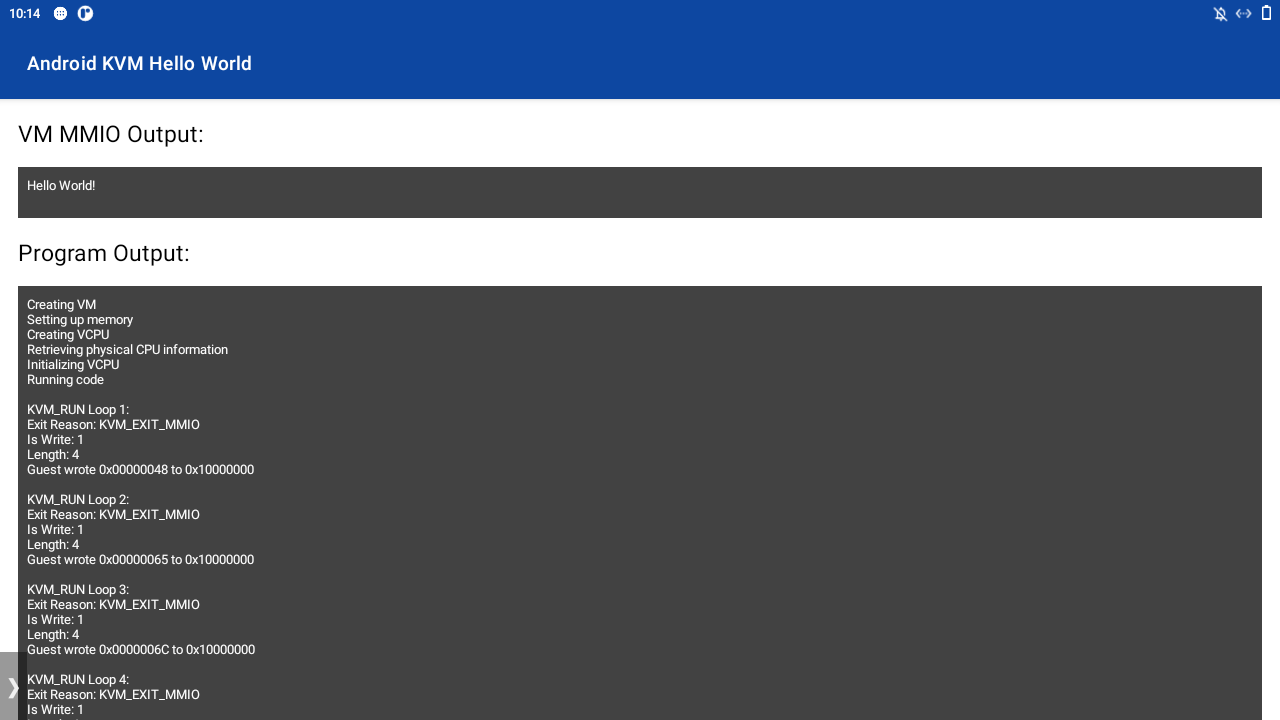
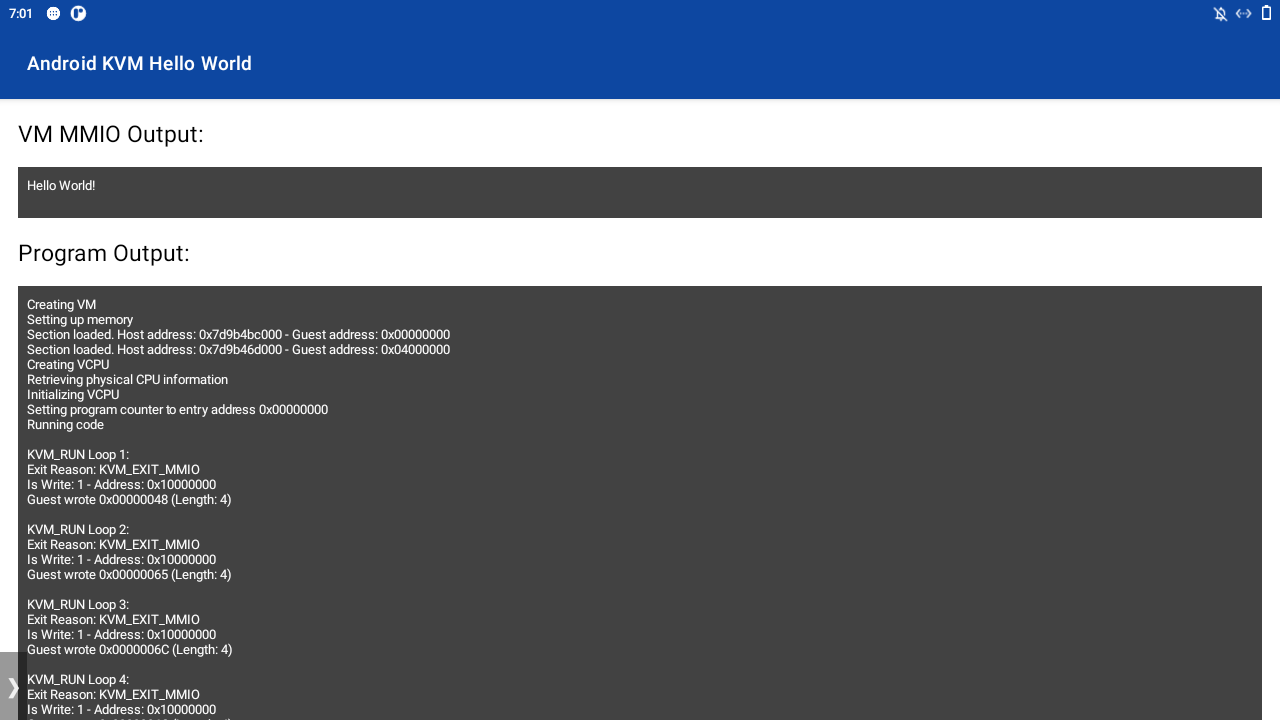
Improve README

Changed region(s): [[0.0, 0.4583, 0.375, 0.9167], [0.0625, 0.9778, 0.1875, 1.0], [0.0, 0.0, 0.0938, 0.0306]]

diff --git a/app/src/main/cpp/kvm_test.cpp b/app/src/main/cpp/kvm_test.cpp
@@ -194,12 +194,11 @@ int copy_elf_into_memory(AAssetManager *mgr) {
  * Handles a MMIO exit from KVM_RUN.
  */
 void mmio_exit_handler() {
-    snprintf(buffer, MAX_STRING_LENGTH, "Is Write: %d\n", run->mmio.is_write);
+    snprintf(buffer, MAX_STRING_LENGTH, "Is Write: %d - Address: 0x%08llX\n",
+             run->mmio.is_write, run->mmio.phys_addr);
     output_text += buffer;
 
     if (run->mmio.is_write) {
-        snprintf(buffer, MAX_STRING_LENGTH, "Length: %d\n", run->mmio.len);
-        output_text += buffer;
         uint64_t data = 0;
         for (int j = 0; j < run->mmio.len; j++) {
             data |= run->mmio.data[j] << 8 * j;
@@ -207,8 +206,8 @@ void mmio_exit_handler() {
 
         mmio_buffer[mmio_buffer_index] = data;
         mmio_buffer_index++;
-        snprintf(buffer, MAX_STRING_LENGTH, "Guest wrote 0x%08lX to 0x%08llX\n", data,
-                 run->mmio.phys_addr);
+        snprintf(buffer, MAX_STRING_LENGTH, "Guest wrote 0x%08lX (Length: %d)\n", data,
+                 run->mmio.len);
         output_text += buffer;
     }
 }

diff --git a/README.md b/README.md
@@ -1,6 +1,9 @@
 # Prerequisites
 
-This app will only run successful on Android 12. Also the permissions of the file `/dev/kvm` on Android need to be changed, so that all users have read and write permission.
+This app will only run successful on Android 12.
+Also the permissions of the file `/dev/kvm` on Android need to be changed,
+so that all users have read and write permission.
+See the last section of this file for more information.
 
 # About
 
@@ -11,3 +14,35 @@ It is developed in another [repository](https://github.com/Lenz-K/arm64-kvm-hell
 The app was tested on a Cortex-A72 (ARMv8-A) processor running Android 12.
 
 ![Screenshot](Screenshot.png)
+
+# Changing the permissions of /dev/kvm
+
+Changing the permissions of /dev/kvm requires root privileges.
+First connect adb to the device.
+Instruction for different setups can be found [here](https://developer.android.com/studio/command-line/adb).
+
+To change the permissions until the next boot, issue the following command:
+```
+adb shell chmod a+rw /dev/kvm
+```
+
+To change the permissions on every boot, one can add the command to an init file.
+There are usually several of these files and name and location can vary.
+Find more information on this [here](https://android.googlesource.com/platform/system/core/+/master/init/README.md).
+On the development device of this repo, the file was located at `/etc/init/init-debug.rc`.
+To edit the file, pull it to your machine:
+```
+adb pull /etc/init/init-debug.rc
+```
+
+Than add the following lines to the end of the file.
+```
+on boot
+    chmod a+rw /dev/kvm
+```
+
+Then push it back to the device.
+```
+adb push init-debug.rc /etc/init/init-debug.rc
+```
+On the next boot, the permissions should be changed automatically.
